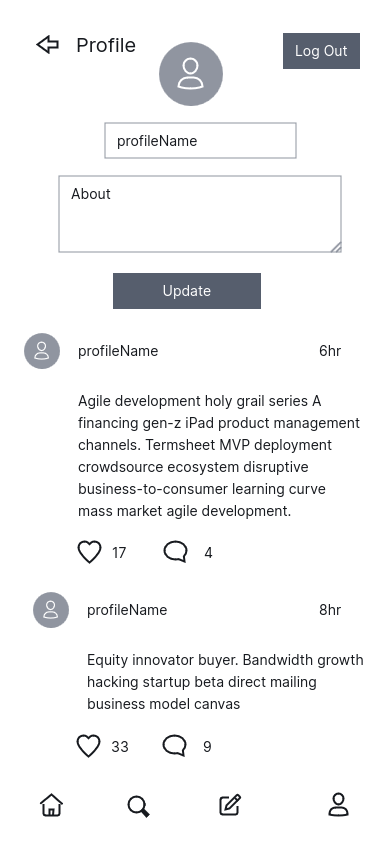
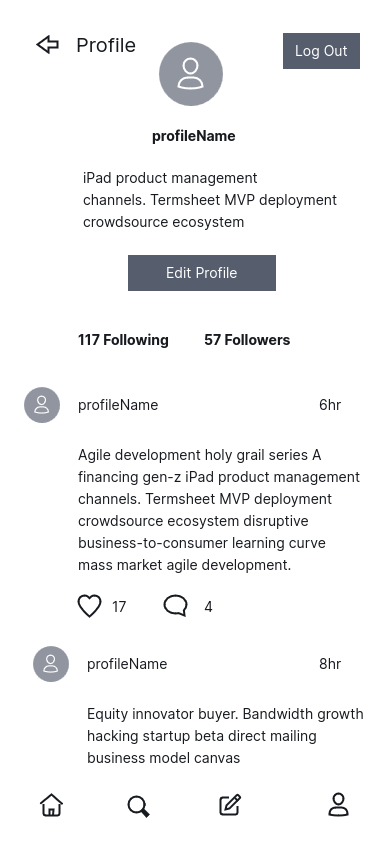
fixed wire frames and required pages list

diff --git a/documentation/wire-frames.html b/documentation/wire-frames.html
@@ -13,17 +13,52 @@
 <section class="container mx-auto my-10 ">
     <h1 class="text-5xl my-10">Wireframes</h1>
     <div class="grid grid-cols-1 md:grid-cols-2 lg:grid-cols-3 gap-12">
-        <img class="mx-auto" src="./images/sign-up.png" alt="sign-up page">
-        <img class="mx-auto" src="./images/sign-in.png" alt="sign-in page">
-        <img class="mx-auto" src="./images/feed.png" alt="feed page">
-        <img class="mx-auto" src="./images/individual-thread-and-reply.png" alt="individual thread and reply page">
-        <img class="mx-auto" src="./images/reply-to-thread.png" alt="reply to thread page">
-        <img class="mx-auto" src="./images/search.png" alt="search page">
-        <img class="mx-auto" src="./images/new-thread.png" alt="new thread page">
-        <img class="mx-auto" src="./images/profile-with-threads-and-follow.png"
-             alt="profile with threads and follow page">
-        <img class="mx-auto" src="./images/logged-in-user-profile.png" alt="logged in user profile page">
-        <img class="mx-auto" src="./images/following.png" alt="following page">
+        <div>
+            <h2 class="text-3xl text-center">Sign-up</h2>
+            <img class="mx-auto" src="./images/sign-up.png" alt="sign-up page">
+        </div>
+        <div>
+            <h2 class="text-3xl text-center">Sign-in</h2>
+            <img class="mx-auto" src="./images/sign-in.png" alt="sign-in page">
+        </div>
+        <div>
+            <h2 class="text-3xl text-center">Threads Feed</h2>
+            <img class="mx-auto" src="./images/feed.png" alt="feed page">
+        </div>
+        <div>
+            <h2 class="text-3xl text-center">Individual Thread and Replies</h2>
+            <img class="mx-auto" src="./images/individual-thread-and-reply.png" alt="individual thread and reply page">
+        </div>
+        <div>
+            <h2 class="text-3xl text-center">Reply to Thread</h2>
+            <img class="mx-auto" src="./images/reply-to-thread.png" alt="reply to thread page">
+        </div>
+        <div>
+            <h2 class="text-3xl text-center">Search</h2>
+            <img class="mx-auto" src="./images/search.png" alt="search page">
+        </div>
+        <div>
+            <h2 class="text-3xl text-center">New Thread</h2>
+            <img class="mx-auto" src="./images/new-thread.png" alt="new thread page">
+        </div>
+        <div>
+            <h2 class="text-3xl text-center">Other User Profile</h2>
+            <img class="mx-auto" src="./images/profile-with-threads-and-follow.png"
+                 alt="profile with threads and follow page">
+        </div>
+        <div>
+            <h2 class="text-3xl text-center">Logged in User Profile</h2>
+            <img class="mx-auto" src="./images/logged-in-user-profile.png" alt="logged in user profile page">
+        </div>
+
+        <div>
+            <h2 class="text-3xl text-center">Edit Profile</h2>
+            <img class="mx-auto" src="./images/profile-edit.png" alt="profile edit page">
+        </div>
+        <div>
+            <h2 class="text-3xl text-center">Following and Followers</h2>
+            <img class="mx-auto" src="./images/following-followers.png" alt="following and followers page">
+        </div>
     </div>
 </section>
 </body>

diff --git a/documentation/requred-pages.html b/documentation/requred-pages.html
@@ -19,7 +19,8 @@
     <li>new thread (link to by clicking "pen and paper" icon in the navbar)</li>
     <li>profile with threads and "follow" button (link to by clicking on profile name or image)</li>
     <li>logged in user profile (link to by clicking profile icon in the navbar)</li>
-    <li>following profiles</li>
+    <li>profile edit (link to by clicking "edit profile" button on the logged in user profile page)</li>
+    <li>following and followers profiles (link to by clicking following or followers on the logged in user profile page)</li>
 </ul>
 
 
